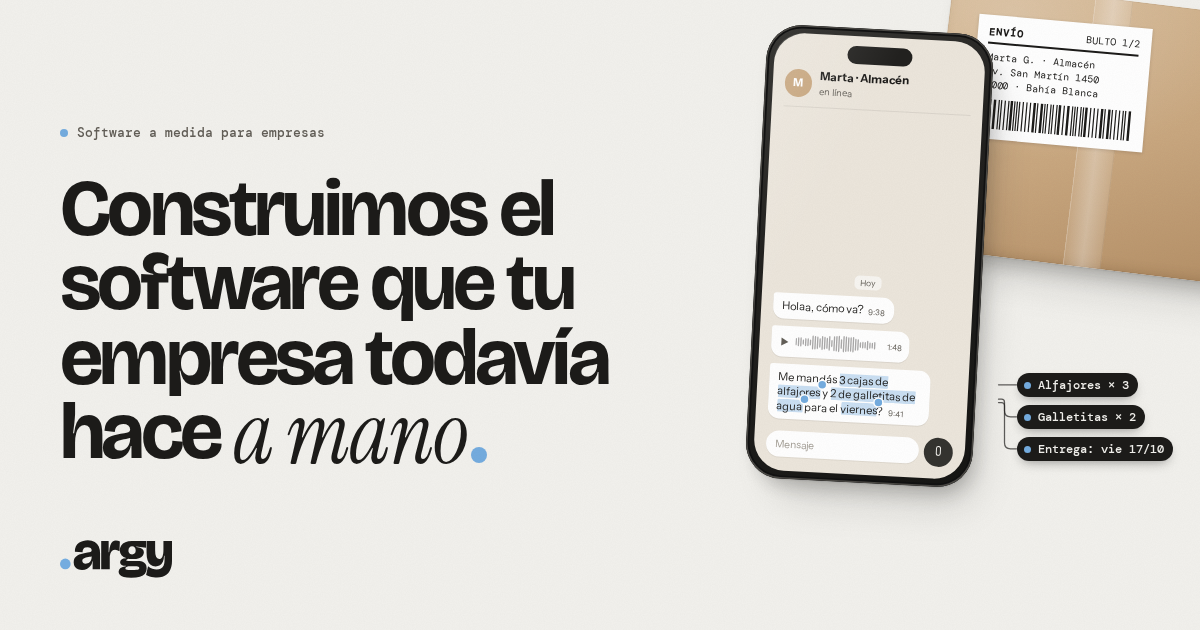
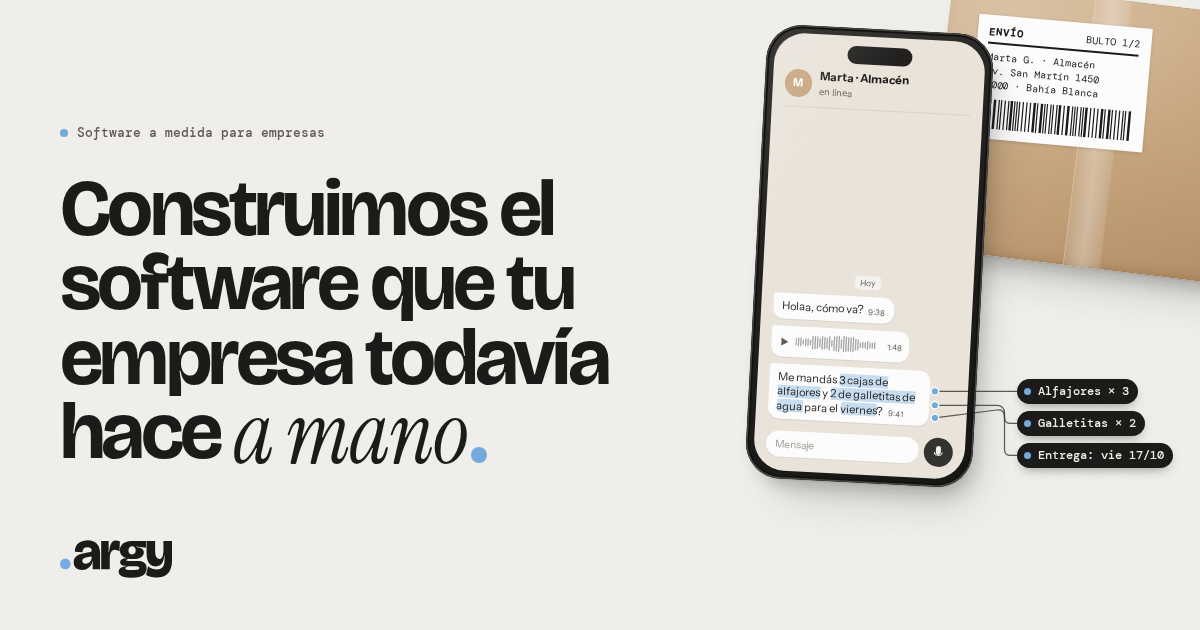
Lectura: punto en el borde del texto y sin desborde en celular
- El punto de la lectura se apoya en el borde de la burbuja, la celda o
  el papel, y de ahí sale la línea: ya no tapa letras. Si dos lecturas
  terminan en la misma línea, los puntos no se pisan.
- El micrófono del chat se dibuja como micrófono.
- La sección de casos recorta lo que sangra por los costados: en
  celular ya no aparece scroll horizontal.
- og.png regenerada.

Claude-Session: https://claude.ai/code/session_01M2JqovDtyy1NXszT4sundP

Changed region(s): [[0.7708, 0.573, 0.9867, 0.754]]

diff --git a/web/js/lectura.js b/web/js/lectura.js
@@ -27,12 +27,11 @@ export function crearLectura(capa, { modo = 'margen' } = {}) {
   capa.appendChild(svg);
   const items = new Map(); // span → { etq, path, lado }
 
-  // El punto va al final del resaltado: ahí termina lo que se leyó.
+  // Dónde termina lo leído: la última línea del resaltado.
   function punto(span, base) {
     const rs = span.getClientRects();
     const r = rs[rs.length - 1] || span.getBoundingClientRect();
-    // Arriba a la derecha de la última línea: marca sin tapar la letra siguiente.
-    return { x: r.right - base.left + 1.5, y: r.top - base.top + 1.5 };
+    return { x: r.right - base.left, y: r.top - base.top + r.height / 2, top: r.top - base.top, bottom: r.bottom - base.top, cx: r.left - base.left + r.width / 2 };
   }
 
   function ubicar(span, it) {
@@ -42,6 +41,8 @@ export function crearLectura(capa, { modo = 'margen' } = {}) {
     const p = punto(span, base);
     const obj = span.closest('.obj, .papel, .ui') || span;
     const o = rel(obj.getBoundingClientRect(), base);
+    // El punto se apoya en el borde de lo que contiene el texto (la burbuja, la celda, el papel): no tapa letras.
+    const cont = rel((span.closest('.burbuja, td, th, .obj, .papel, .ui, p') || obj).getBoundingClientRect(), base);
     const w = it.etq.offsetWidth;
     const h = it.etq.offsetHeight;
     let x;
@@ -49,8 +50,8 @@ export function crearLectura(capa, { modo = 'margen' } = {}) {
     let lado = span.dataset.lado || obj.dataset.lado || 'der';
     if (modo === 'cerca') {
       // Al lado del punto si entra; si no, arriba.
-      if (p.x + 18 + w <= W - 4) { lado = 'cerca'; x = p.x + 18; y = p.y - h / 2; }
-      else { lado = 'arr'; x = Math.max(0, Math.min(W - w, p.x + 16)); y = p.y - h - 22; }
+      if (p.x + 22 + w <= W - 4) { lado = 'cerca'; x = p.x + 22; y = p.y - h / 2; }
+      else { lado = 'arr'; x = Math.max(0, Math.min(W - w, p.cx - w / 2)); y = p.top - h - 20; }
     } else {
       const entraDer = o.r + GAP + w <= W - 4;
       const entraIzq = o.x - GAP - w >= 4;
@@ -59,7 +60,7 @@ export function crearLectura(capa, { modo = 'margen' } = {}) {
       if (lado === 'aba' && o.b + GAP + h > H - 2) lado = 'arr';
       if (lado === 'der') x = o.r + GAP;
       else if (lado === 'izq') x = o.x - GAP - w;
-      else x = Math.max(4, Math.min(W - w - 4, p.x - w / 2));
+      else x = Math.max(4, Math.min(W - w - 4, p.cx - w / 2));
       if (lado === 'arr') y = o.y - h - GAP;
       else if (lado === 'aba') y = o.b + GAP;
       else y = p.y - h / 2;
@@ -78,22 +79,36 @@ export function crearLectura(capa, { modo = 'margen' } = {}) {
     it.caja = caja;
     it.etq.style.left = `${caja.x.toFixed(1)}px`;
     it.etq.style.top = `${caja.y.toFixed(1)}px`;
-    // Línea: del punto a la etiqueta.
-    it.marca.setAttribute('cx', p.x.toFixed(1));
-    it.marca.setAttribute('cy', p.y.toFixed(1));
-    // La línea sale del borde del objeto (no cruza el texto) y llega a la etiqueta.
+    // El punto y la línea: del borde del contenedor a la etiqueta, con tramos rectos.
     const cy = caja.y + h / 2;
+    let m;
     let pts;
-    if (lado === 'cerca') pts = [[p.x + 6, p.y], [caja.x - 8, p.y], [caja.x - 8, cy], [caja.x, cy]];
-    else if (lado === 'der') pts = [[Math.max(p.x + 6, o.r + 4), p.y], [caja.x - 12, p.y], [caja.x - 12, cy], [caja.x, cy]];
-    else if (lado === 'izq') pts = [[Math.min(p.x - 6, o.x - 4), p.y], [caja.x + w + 12, p.y], [caja.x + w + 12, cy], [caja.x + w, cy]];
-    else if (lado === 'aba') {
-      const ax = caja.x + Math.min(w - 12, Math.max(12, p.x - caja.x));
-      pts = [[p.x, p.y + 6], [p.x, caja.y - 10], [ax, caja.y - 10], [ax, caja.y]];
+    if (lado === 'cerca') {
+      m = [p.x + 5, p.y];
+      pts = [m, [caja.x - 8, m[1]], [caja.x - 8, cy], [caja.x, cy]];
+    } else if (lado === 'der') {
+      m = [cont.r + 4, p.y];
+      pts = [m, [caja.x - 12, m[1]], [caja.x - 12, cy], [caja.x, cy]];
+    } else if (lado === 'izq') {
+      m = [cont.x - 4, p.y];
+      pts = [m, [caja.x + w + 12, m[1]], [caja.x + w + 12, cy], [caja.x + w, cy]];
     } else {
-      const ax = caja.x + Math.min(w - 12, Math.max(12, p.x - caja.x));
-      pts = [[p.x, p.y - 6], [p.x, caja.y + h + 10], [ax, caja.y + h + 10], [ax, caja.y + h]];
+      const ax = caja.x + Math.min(w - 12, Math.max(12, p.cx - caja.x));
+      if (lado === 'aba') {
+        m = [p.cx, p.bottom + 4];
+        pts = [m, [p.cx, caja.y - 10], [ax, caja.y - 10], [ax, caja.y]];
+      } else {
+        m = [p.cx, p.top - 4];
+        pts = [m, [p.cx, caja.y + h + 10], [ax, caja.y + h + 10], [ax, caja.y + h]];
+      }
     }
+    // Dos lecturas en la misma línea: los puntos no se pisan.
+    const usados = [...items.values()].filter((o2) => o2 !== it && o2.m).map((o2) => o2.m);
+    for (let n = 0; n < 4 && usados.some((u) => Math.hypot(u[0] - m[0], u[1] - m[1]) < 9); n++) m[1] += 9;
+    pts[0] = m;
+    it.m = m;
+    it.marca.setAttribute('cx', m[0].toFixed(1));
+    it.marca.setAttribute('cy', m[1].toFixed(1));
     // Quita tramos de largo cero para que las esquinas no se deformen.
     pts = pts.filter((q, i) => i === 0 || Math.hypot(q[0] - pts[i - 1][0], q[1] - pts[i - 1][1]) > .5);
     it.path.setAttribute('d', pts.length > 1 ? ruta(pts, 8) : '');
@@ -112,7 +127,7 @@ export function crearLectura(capa, { modo = 'margen' } = {}) {
     const path = document.createElementNS(NS, 'path');
     svg.appendChild(path);
     const marca = document.createElementNS(NS, 'circle');
-    marca.setAttribute('r', '4.5');
+    marca.setAttribute('r', '3.8');
     marca.setAttribute('class', 'marca');
     svg.appendChild(marca);
     const it = { etq, path, marca };
@@ -166,7 +181,7 @@ export function crearLectura(capa, { modo = 'margen' } = {}) {
   }
 
   function recalcular() {
-    items.forEach((it, span) => { if (!it.llevada) { it.caja = null; } });
+    items.forEach((it) => { if (!it.llevada) { it.caja = null; it.m = null; } });
     items.forEach((it, span) => { if (!it.llevada) ubicar(span, it); });
   }
 

diff --git a/web/css/styles.css b/web/css/styles.css
@@ -287,7 +287,8 @@ a:hover .flecha, button:hover .flecha { width: 1.65em; }
 .chat-input { display: flex; align-items: center; gap: .45em; margin-top: .35em; }
 .chat-input span { flex: 1; background: var(--blanco); border-radius: 1.5em; padding: .6em .95em; color: #A19C93; font-size: .88em; box-shadow: 0 1px 0 rgba(28, 27, 25, .06); }
 .chat-input i { width: 2.5em; height: 2.5em; border-radius: 50%; background: #34332F; flex: none; position: relative; }
-.chat-input i::after { content: ''; position: absolute; left: 50%; top: 50%; width: .5em; height: .85em; margin: -.55em 0 0 -.25em; border-radius: .3em; border: .12em solid var(--piedra); }
+.chat-input i::before { content: ''; position: absolute; left: 50%; top: 50%; width: .42em; height: .78em; margin: -.58em 0 0 -.21em; border-radius: .25em; background: var(--piedra); }
+.chat-input i::after { content: ''; position: absolute; left: 50%; top: 50%; width: .72em; height: .4em; margin: -.05em 0 0 -.36em; border: .1em solid var(--piedra); border-top: 0; border-radius: 0 0 .4em .4em; }
 .burbuja.audio { display: flex; align-items: center; gap: .6em; min-width: 12.5em; padding-right: .7em; }
 .audio-play { width: 0; height: 0; border-style: solid; border-width: .45em 0 .45em .72em; border-color: transparent transparent transparent var(--texto-2); flex: none; margin-left: .15em; }
 .audio-onda { position: relative; flex: 1; height: 1.7em; color: rgba(28, 27, 25, .38); }
@@ -517,7 +518,7 @@ a:hover .flecha, button:hover .flecha { width: 1.65em; }
 .remate-a { font-family: var(--f-display); font-weight: 600; font-size: clamp(1.5rem, 1rem + 1.6vw, 2.5rem); letter-spacing: -.03em; line-height: 1.12; max-width: 19em; text-wrap: balance; }
 
 /* ═════════════ 02 · Qué construimos ═════════════ */
-.cap-casos { padding-bottom: clamp(80px, 9vw, 140px); }
+.cap-casos { padding-bottom: clamp(80px, 9vw, 140px); overflow-x: clip; }
 .casos-cabeza .gigante { max-width: 7.5em; }
 .casos-intro { display: grid; grid-template-columns: minmax(0, 34em) auto; justify-content: space-between; align-items: end; gap: 24px 48px; margin-top: clamp(24px, 3vw, 40px); }
 .nota-ejemplo { display: inline-flex; align-items: center; gap: .6em; font-family: var(--f-mono); font-size: var(--t-mono); color: var(--texto-2); }
